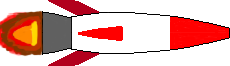
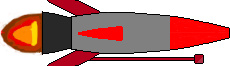
я перерисовала фон и теперь там не видно перехода, переделала огонь корабля и нарисовала ему пушку, только пули все выходят из носа корабля, а не из самой пушки

diff --git a/Тест прога.py b/Тест прога.py
@@ -99,11 +99,11 @@ spaceship = SpaceShip()
 all_sprites.add(spaceship)
 bullets = pygame.sprite.Group()
 
-background = load_image('fon.png')
-background2 = load_image('fon.png')
+background = load_image('fon3.png')
+background2 = load_image('fon3.png')
 background_rect = background.get_rect()
 background_rect2 = background.get_rect()
-background_rect2.x =  WIDTH
+background_rect2.x = WIDTH
 
 running = True
 while running:
